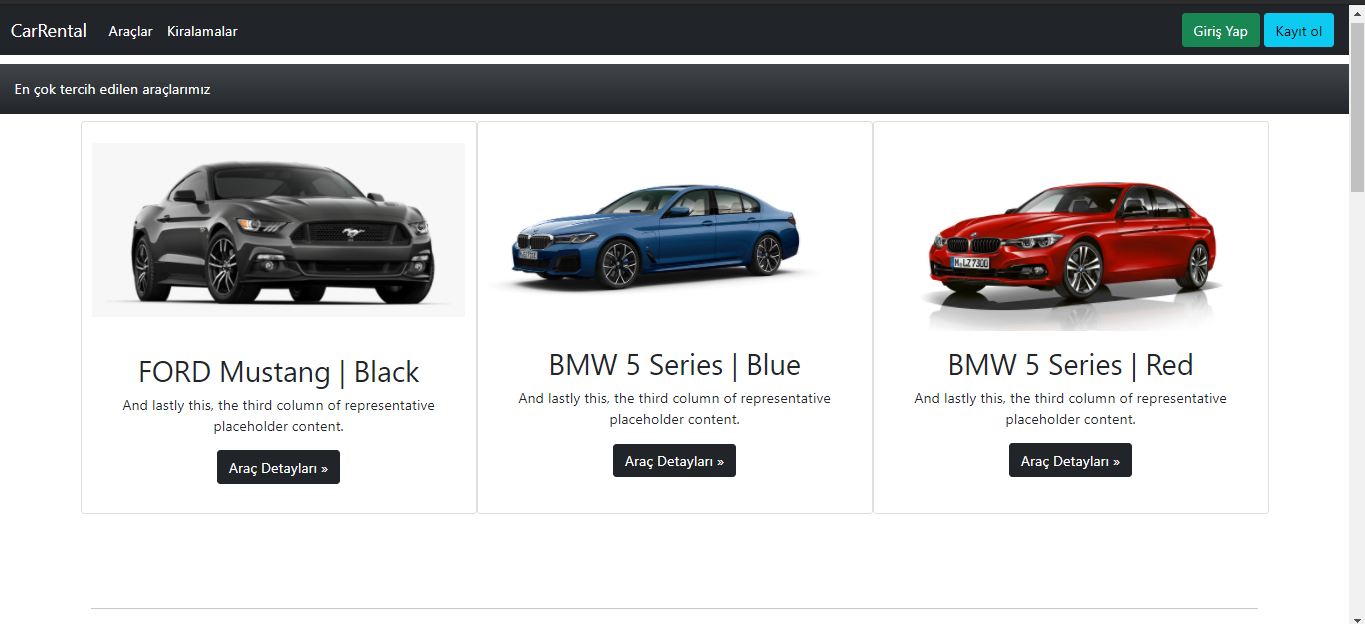
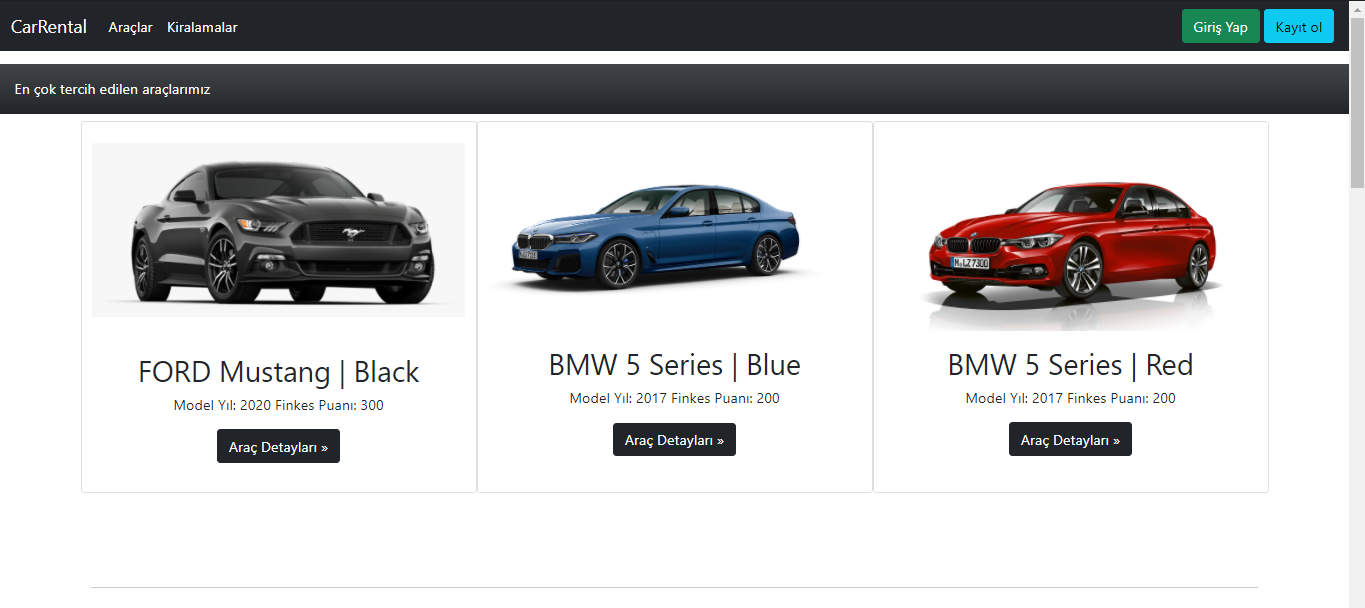
refactoring

diff --git a/src/app/components/home/home.component.html b/src/app/components/home/home.component.html
@@ -16,7 +16,8 @@
       <div class="card-body">
         <h2>FORD Mustang | Black</h2>
         <p>
-          And lastly this, the third column of representative placeholder content.
+          Model Yıl: 2020
+          Finkes Puanı: 300
         </p>
         
         <p><a class="btn btn-dark" href="http://localhost:4200/detail/5009">Araç Detayları &raquo;</a></p>
@@ -27,7 +28,8 @@
       <div class="card-body">
         <h2>BMW 5 Series | Blue</h2>
         <p>
-          And lastly this, the third column of representative placeholder content.
+          Model Yıl: 2017
+          Finkes Puanı: 200
         </p>
         <p><a class="btn btn-dark" href="http://localhost:4200/detail/3">Araç Detayları &raquo;</a></p>
       </div>
@@ -37,7 +39,8 @@
       <div class="card-body">
         <h2>BMW 5 Series | Red</h2>
         <p>
-          And lastly this, the third column of representative placeholder content.
+          Model Yıl: 2017
+          Finkes Puanı: 200
         </p>
         <p><a class="btn btn-dark" href="http://localhost:4200/detail/2005">Araç Detayları &raquo;</a></p>
       </div>
